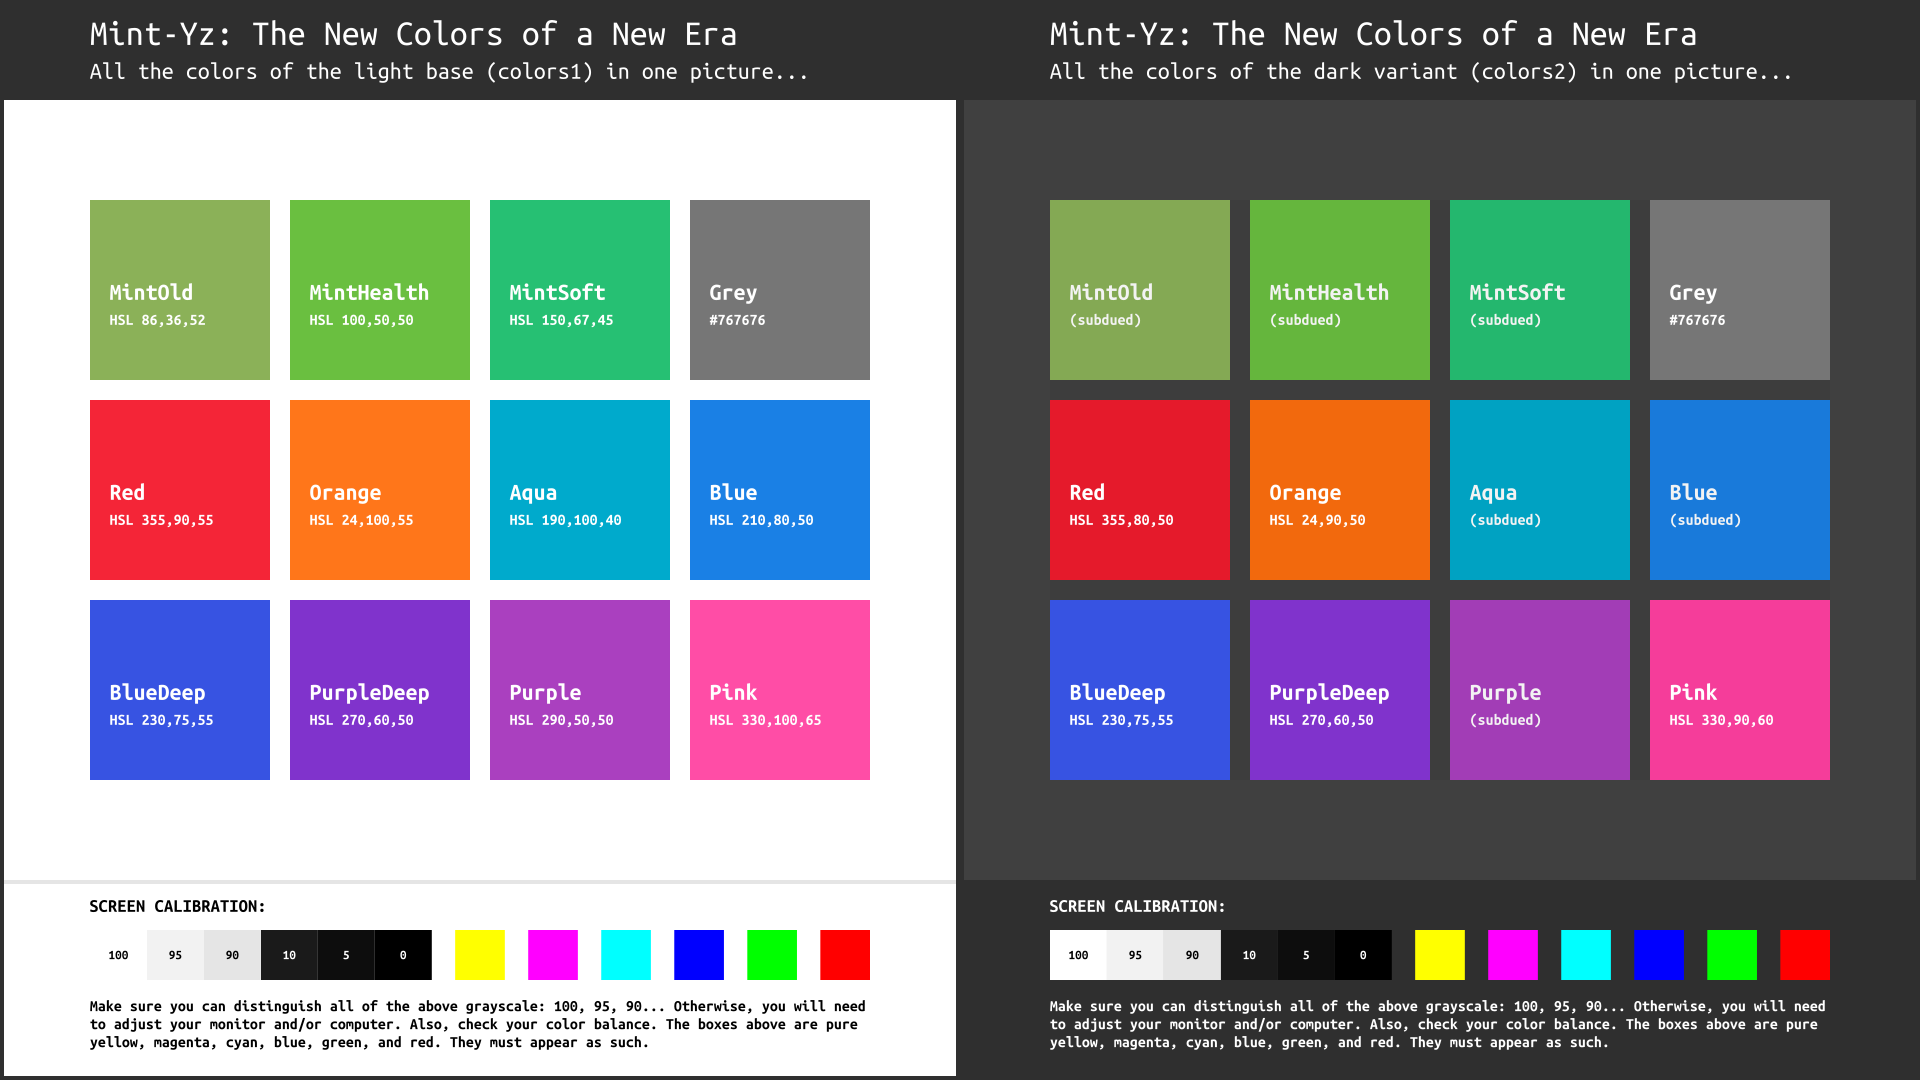
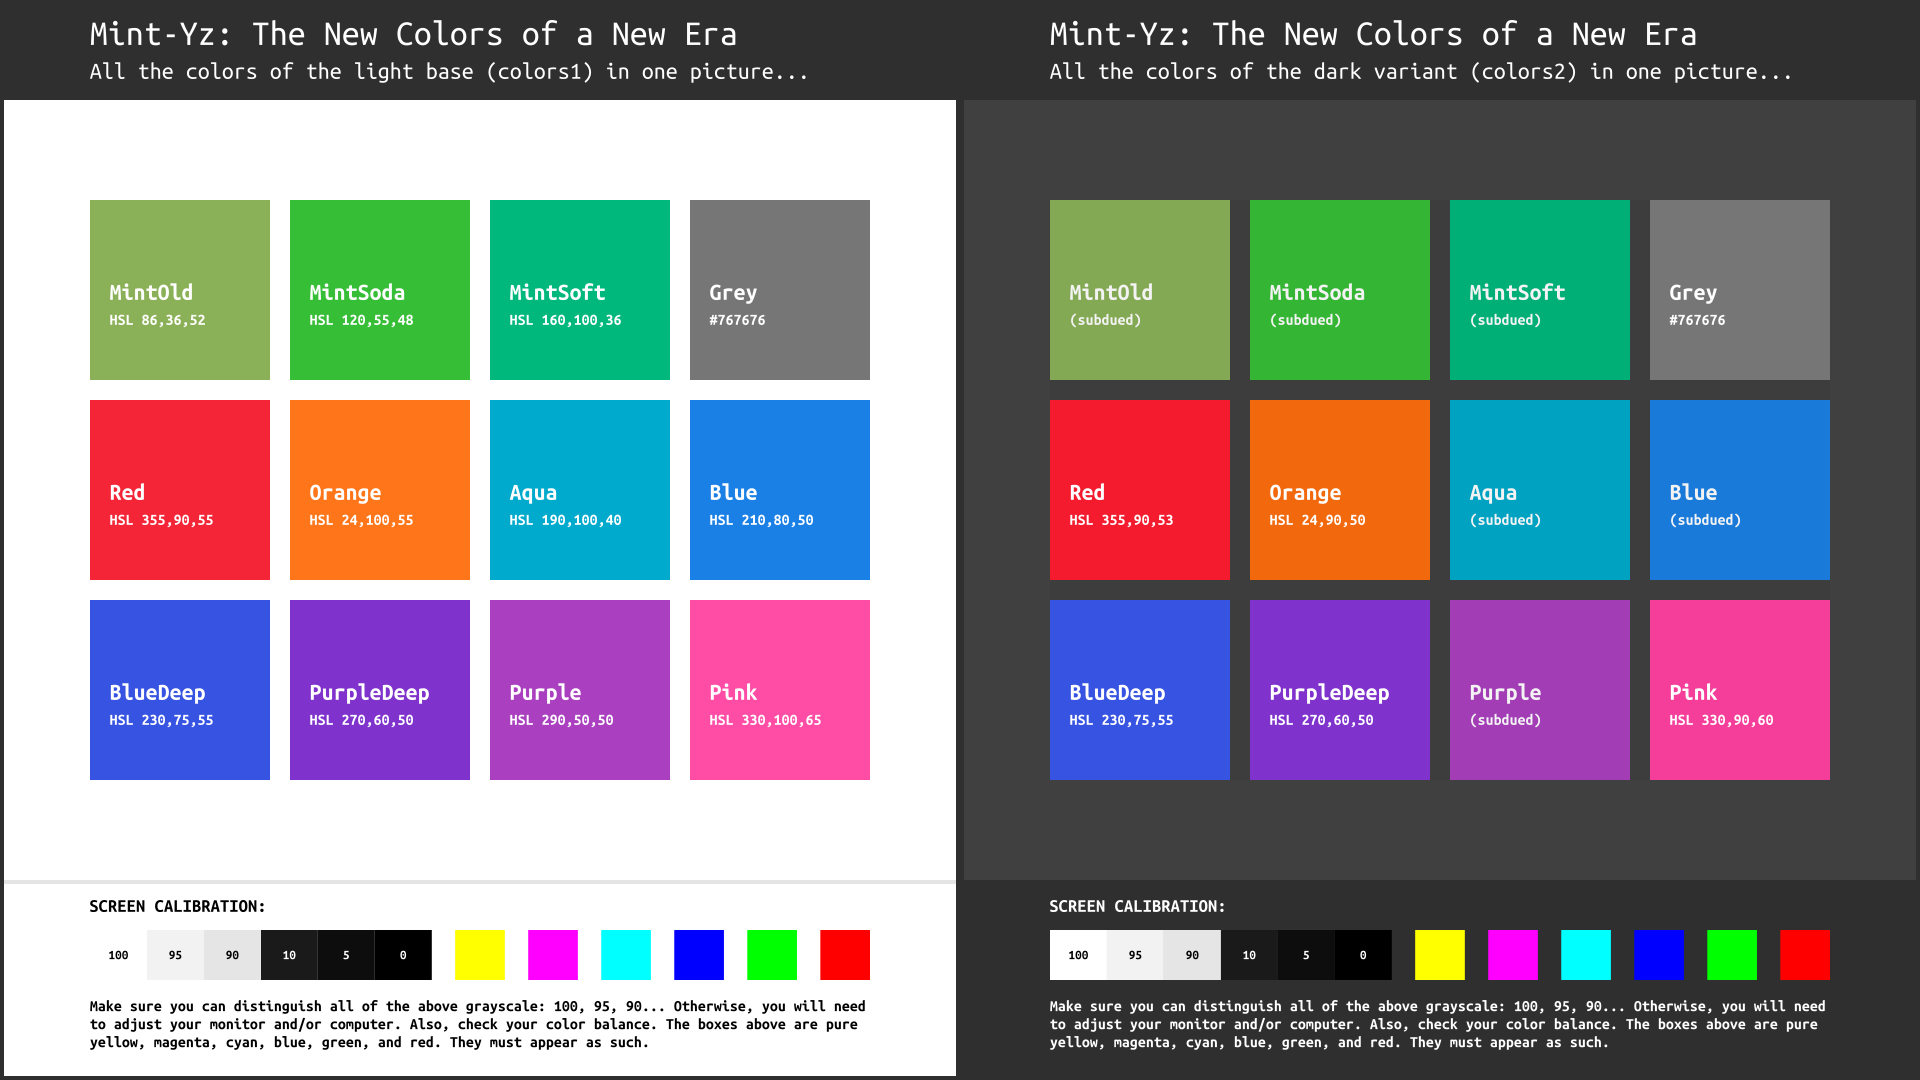
Color updates on MintSoda, MintSoft and dark-Red
modified:   Mint-Y-Colors/Mint-Y-Variations.png
	modified:   Mint-Y-Colors/Mint-Y-Variations.svg
	renamed:    Mint-Y-Colors/one-by-one/Mint-Y-Variations-MintHealth.svg -> Mint-Y-Colors/one-by-one/Mint-Y-Variations-Mint-1.svg
	renamed:    Mint-Y-Colors/one-by-one/Mint-Y-Variations-Mint.svg -> Mint-Y-Colors/one-by-one/Mint-Y-Variations-Mint-2.svg
	modified:   constants.py

Changed region(s): [[0.625, 0.1833, 0.875, 0.3667], [0.125, 0.1833, 0.375, 0.3667]]

diff --git a/constants.py b/constants.py
@@ -23,15 +23,15 @@ y_hex_colors2["MintOld"] = "#84A954"
 y_hex_colors3["MintOld"] = "#A2C179"
 y_hex_colors4["MintOld"] = "#627C3E"
 
-y_hex_colors1["MintHealth"] = "#6ABF40"
-y_hex_colors2["MintHealth"] = "#65B63D"
-y_hex_colors3["MintHealth"] = "#88CC66"
-y_hex_colors4["MintHealth"] = "#4A862D"
+y_hex_colors1["MintSoda"] = "#37BE37"
+y_hex_colors2["MintSoda"] = "#34B534"
+y_hex_colors3["MintSoda"] = "#5FCB5F"
+y_hex_colors4["MintSoda"] = "#278527"
 
-y_hex_colors1["MintSoft"] = "#26C073"
-y_hex_colors2["MintSoft"] = "#24B76E"
-y_hex_colors3["MintSoft"] = "#51CD8F"
-y_hex_colors4["MintSoft"] = "#1B8751"
+y_hex_colors1["MintSoft"] = "#00B87B"
+y_hex_colors2["MintSoft"] = "#00AF75"
+y_hex_colors3["MintSoft"] = "#33C695"
+y_hex_colors4["MintSoft"] = "#008156"
 
 y_hex_colors1["Grey"] = "#767676"
 y_hex_colors2["Grey"] = "#767676"
@@ -39,7 +39,7 @@ y_hex_colors3["Grey"] = "#919191"
 y_hex_colors4["Grey"] = "#535353"
 
 y_hex_colors1["Red"] = "#F42537"
-y_hex_colors2["Red"] = "#E51A2B"
+y_hex_colors2["Red"] = "#F31B2D"
 y_hex_colors3["Red"] = "#F6515F"
 y_hex_colors4["Red"] = "#AB1A27"
 
